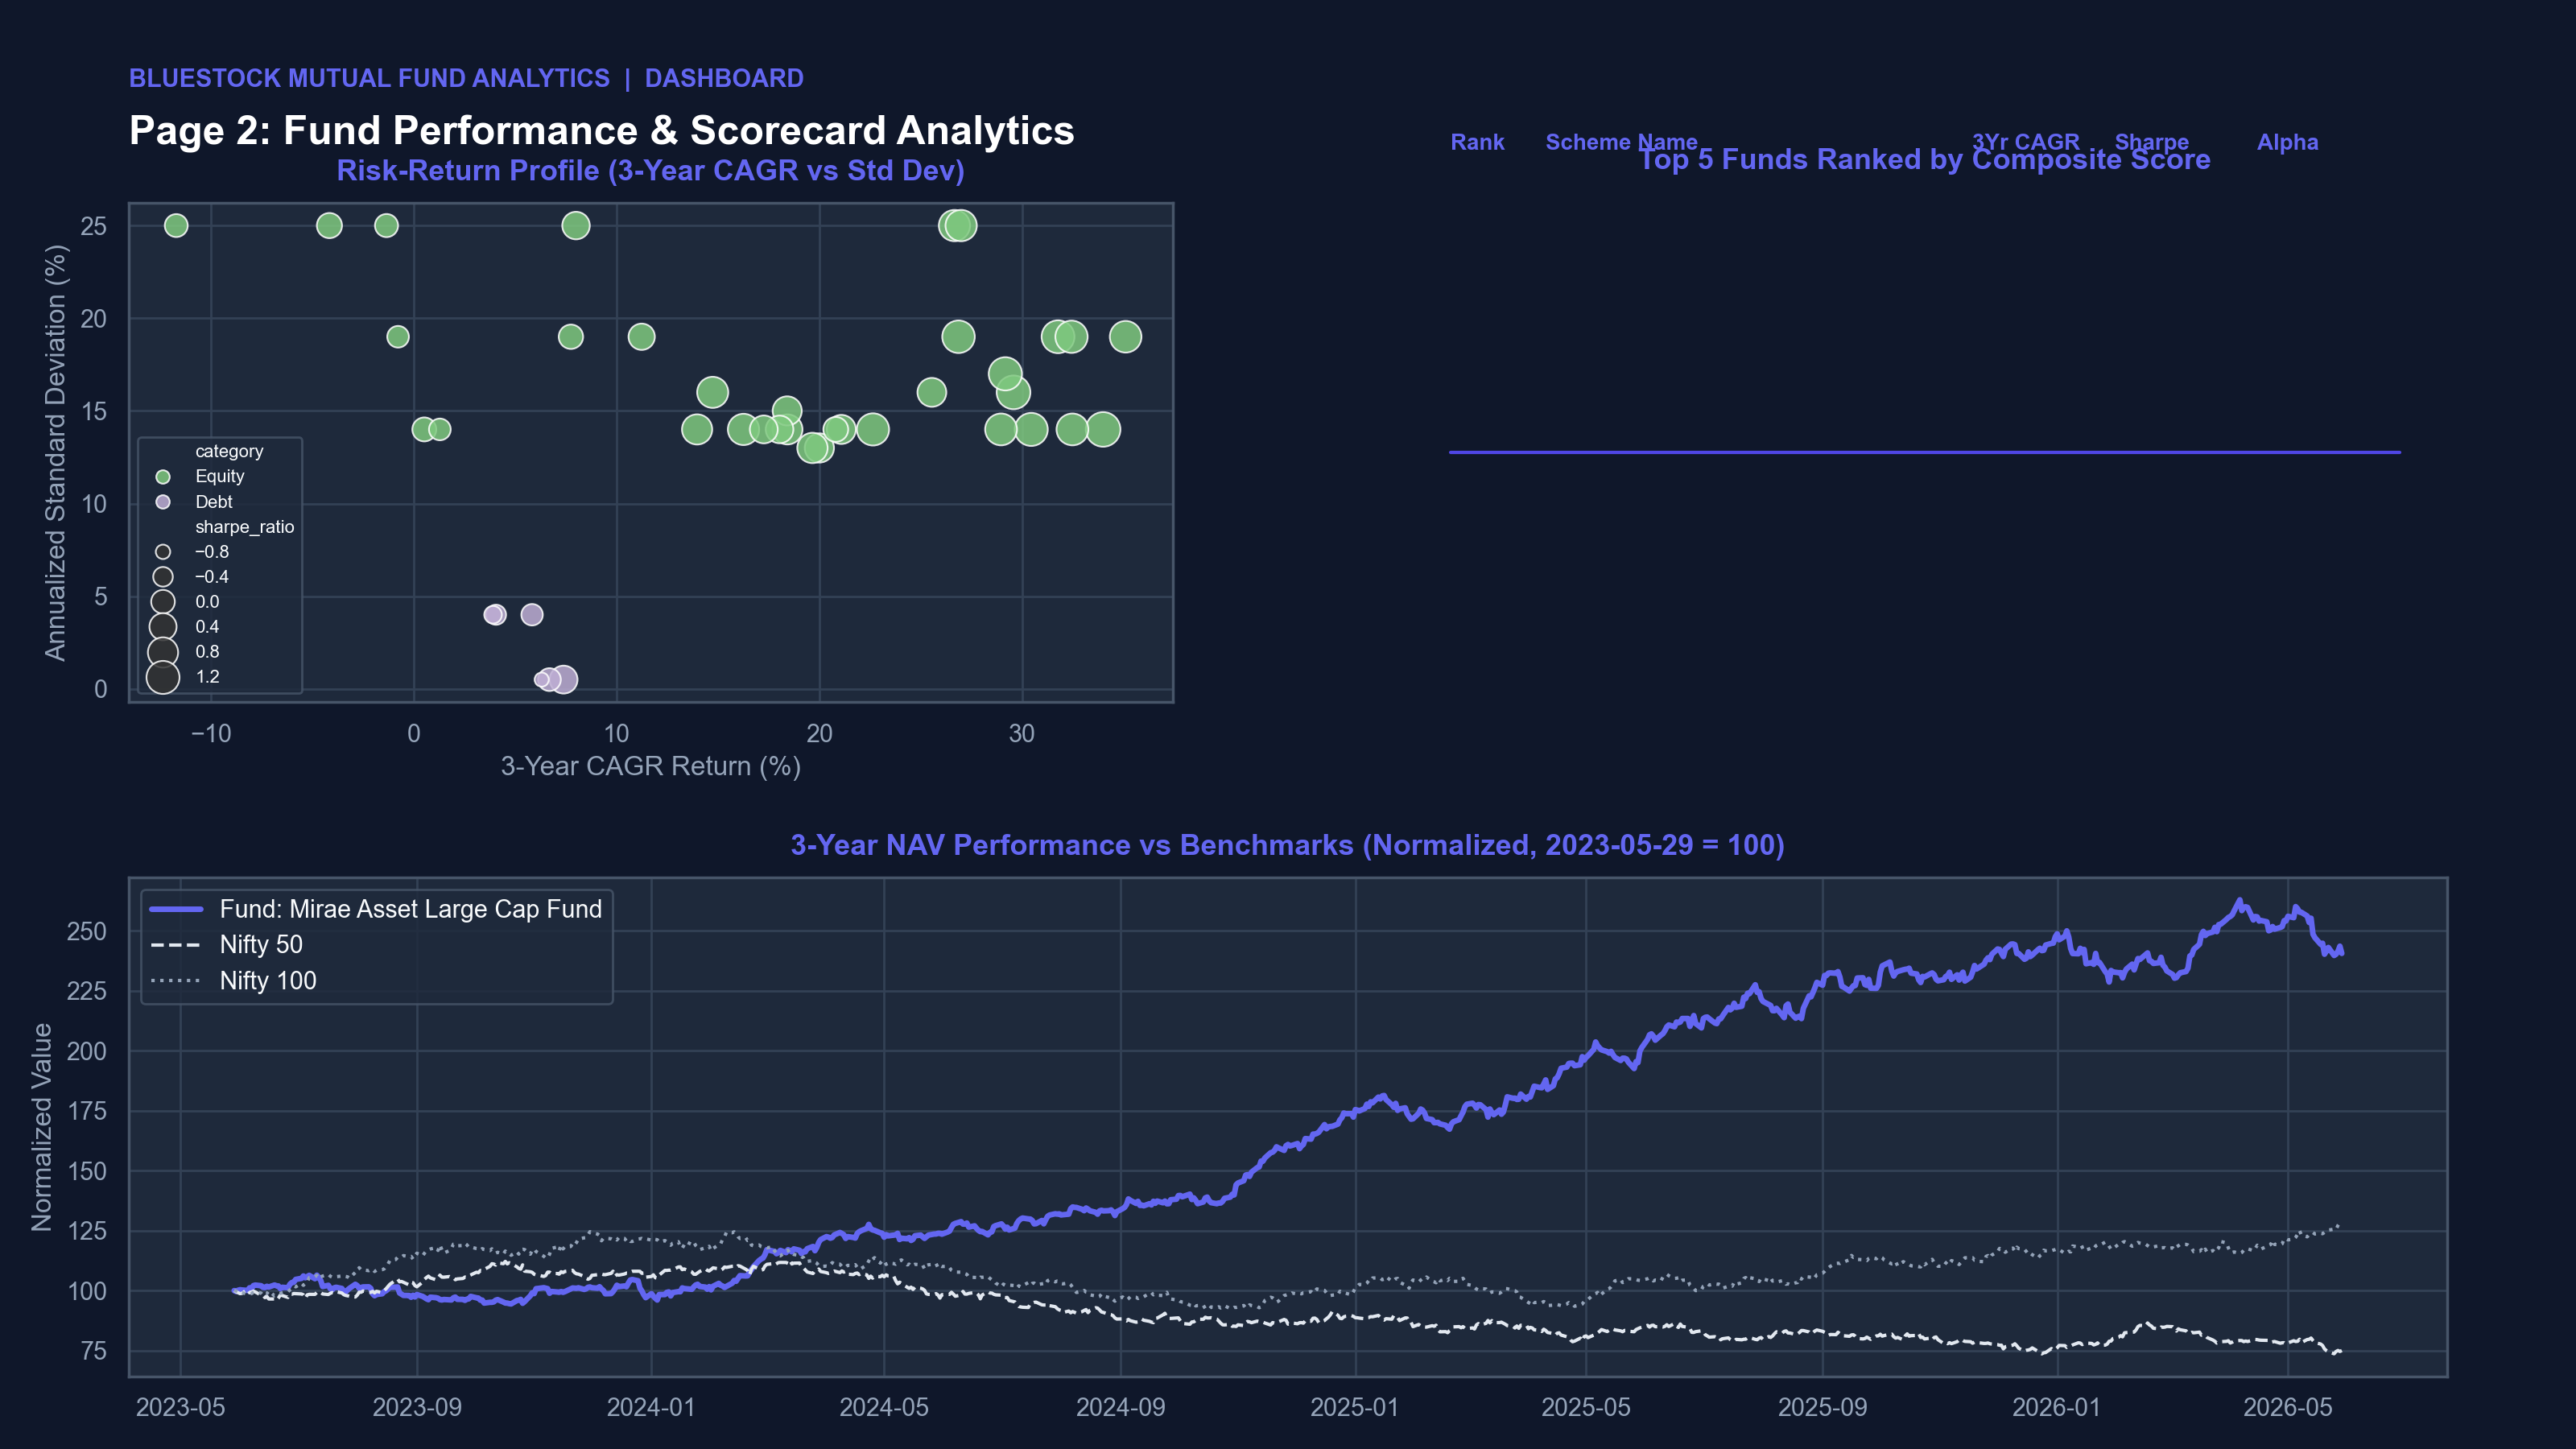
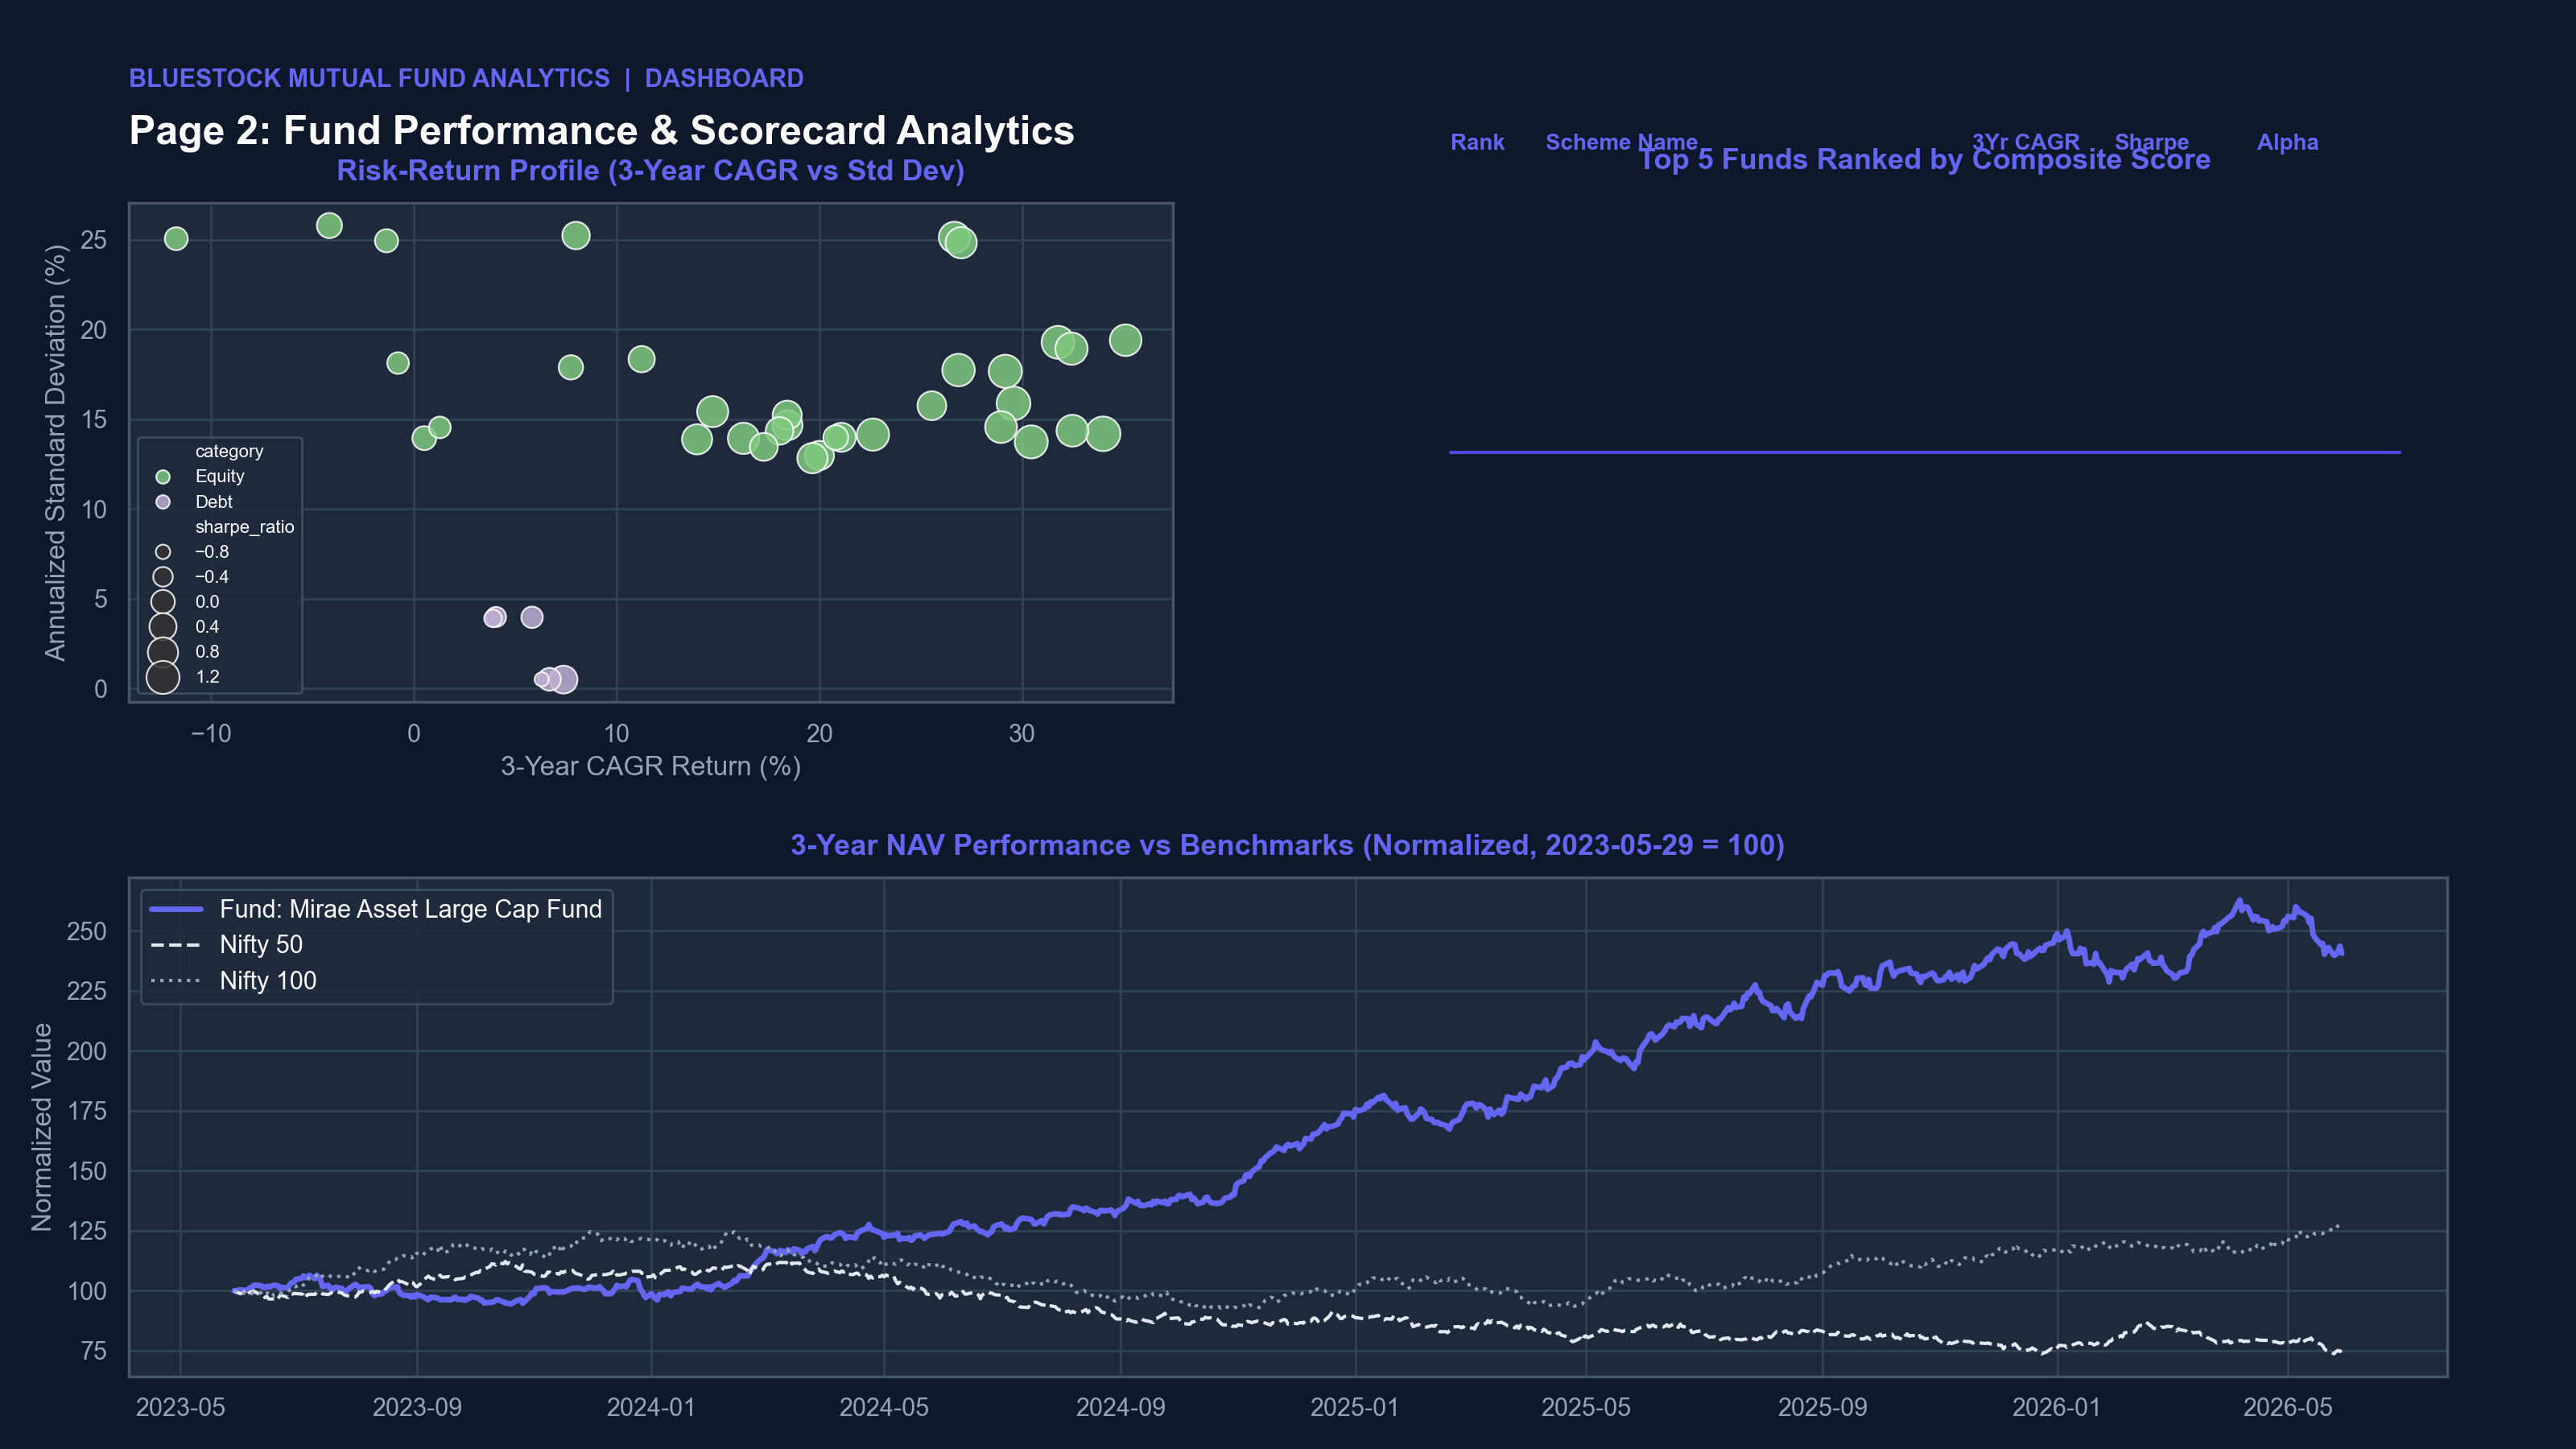
Fix Fund Performance page scatter size crash, NameError on NAV comparison db connection, and enhance the UI with top KPIs, color-graded scorecard, and a latex financial glossary

diff --git a/dashboard/app.py b/dashboard/app.py
@@ -2,6 +2,7 @@ import streamlit as st
 import pandas as pd
 import numpy as np
 import sqlite3
+import contextlib
 import plotly.express as px
 import plotly.graph_objects as go
 from pathlib import Path
@@ -136,6 +137,15 @@ def load_csv_data(filename):
     if path.exists():
         return pd.read_csv(path)
     return pd.DataFrame()
+
[email redacted]
+def get_db_connection():
+    db_path = PROCESSED_DIR / "bluestock.db"
+    conn = sqlite3.connect(db_path)
+    try:
+        yield conn
+    finally:
+        conn.close()
 
 # Load common datasets
 fund_master = load_csv_data("clean_fund_master.csv")
@@ -303,6 +313,49 @@ elif page == "Fund Performance":
     st.markdown("Analyze mutual fund returns on a risk-adjusted basis, evaluate tracking errors against benchmarks, and discover top recommendation models.")
     st.markdown("<br>", unsafe_allow_html=True)
     
+    # Dynamic top-level KPIs computed from scorecard
+    if not scorecard.empty:
+        top_cagr_row = scorecard.loc[scorecard['cagr_3yr_pct'].idxmax()]
+        top_sharpe_row = scorecard.loc[scorecard['sharpe_ratio'].idxmax()]
+        top_alpha_row = scorecard.loc[scorecard['alpha'].idxmax()]
+        lowest_exp_row = scorecard.loc[scorecard['expense_ratio_pct'].idxmin()]
+        
+        kcol1, kcol2, kcol3, kcol4 = st.columns(4)
+        with kcol1:
+            st.markdown(f"""
+            <div class="kpi-container">
+                <div class="kpi-title">Top CAGR Return</div>
+                <div class="kpi-value">{top_cagr_row['cagr_3yr_pct']:.1f}%</div>
+                <div class="kpi-delta" style="color: #10B981;">🏆 {top_cagr_row['scheme_name'].split(" - ")[0][:28]}</div>
+            </div>
+            """, unsafe_allow_html=True)
+        with kcol2:
+            st.markdown(f"""
+            <div class="kpi-container">
+                <div class="kpi-title">Highest Sharpe Ratio</div>
+                <div class="kpi-value">{top_sharpe_row['sharpe_ratio']:.2f}</div>
+                <div class="kpi-delta" style="color: #6366F1;">💎 {top_sharpe_row['scheme_name'].split(" - ")[0][:28]}</div>
+            </div>
+            """, unsafe_allow_html=True)
+        with kcol3:
+            st.markdown(f"""
+            <div class="kpi-container">
+                <div class="kpi-title">Max Alpha (vs Bench)</div>
+                <div class="kpi-value">+{top_alpha_row['alpha']:.1f}%</div>
+                <div class="kpi-delta" style="color: #10B981;">⚡ {top_alpha_row['scheme_name'].split(" - ")[0][:28]}</div>
+            </div>
+            """, unsafe_allow_html=True)
+        with kcol4:
+            st.markdown(f"""
+            <div class="kpi-container">
+                <div class="kpi-title">Lowest Expense Ratio</div>
+                <div class="kpi-value">{lowest_exp_row['expense_ratio_pct']:.2f}%</div>
+                <div class="kpi-delta" style="color: #6366F1;">🌿 {lowest_exp_row['scheme_name'].split(" - ")[0][:28]}</div>
+            </div>
+            """, unsafe_allow_html=True)
+            
+    st.markdown("<br>", unsafe_allow_html=True)
+    
     # Interactive Sidebar Filters
     st.sidebar.markdown("### FILTER CONTROLS")
     selected_amcs = st.sidebar.multiselect("Select AMC / Fund Houses", options=fund_master['fund_house'].unique())
@@ -331,22 +384,32 @@ elif page == "Fund Performance":
         
         # Merge std_dev_ann_pct and category
         plot_data = filtered_scorecard.merge(fund_master[['amfi_code', 'category', 'fund_house']], on='amfi_code')
-        if not scheme_perf.empty:
+        if 'std_dev_ann_pct' not in plot_data.columns and not scheme_perf.empty:
             plot_data = plot_data.merge(scheme_perf[['amfi_code', 'std_dev_ann_pct']], on='amfi_code')
             
         if not plot_data.empty:
+            # Map size parameter safely (clip at minimum to prevent Plotly errors on negative Sharpe Ratios)
+            plot_data['sharpe_ratio_size'] = plot_data['sharpe_ratio'].clip(lower=0.1) * 10 + 5
+            
             fig_scatter = px.scatter(
                 plot_data,
                 x="cagr_3yr_pct",
                 y="std_dev_ann_pct",
                 color="category",
                 hover_name="scheme_name",
-                size="sharpe_ratio",
+                size="sharpe_ratio_size",
                 color_discrete_sequence=px.colors.qualitative.Bold,
                 labels={
                     "cagr_3yr_pct": "3-Year CAGR Return (%)",
                     "std_dev_ann_pct": "Annualized Standard Deviation (%)",
                     "sharpe_ratio": "Sharpe Ratio"
+                },
+                hover_data={
+                    "cagr_3yr_pct": ":.2f",
+                    "std_dev_ann_pct": ":.2f",
+                    "sharpe_ratio": ":.2f",
+                    "alpha": ":.2f",
+                    "sharpe_ratio_size": False
                 },
                 template="plotly_dark"
             )
@@ -419,7 +482,7 @@ elif page == "Fund Performance":
             'Expense Ratio (%)': '{:.2f}%',
             'Max Drawdown (%)': '{:.2f}%',
             'Composite Score': '{:.2f}'
-        }), use_container_width=True, hide_index=True)
+        }).background_gradient(subset=['Composite Score'], cmap='Purples'), use_container_width=True, hide_index=True)
     st.markdown("</div>", unsafe_allow_html=True)
     
     # Fund Detail & Benchmark comparison
@@ -457,12 +520,50 @@ elif page == "Fund Performance":
                 fig_nav = update_plotly_theme(fig_nav)
                 st.plotly_chart(fig_nav, use_container_width=True)
                 
-                # Show key stats
-                kcol1, kcol2, kcol3, kcol4 = st.columns(4)
-                kcol1.metric("3Yr CAGR Return", f"{fund_row['cagr_3yr_pct']:.2f}%")
-                kcol2.metric("Sharpe Ratio", f"{fund_row['sharpe_ratio']:.2f}")
-                kcol3.metric("Alpha (vs Nifty 100)", f"{fund_row['alpha']:.2f}%")
-                kcol4.metric("Maximum Drawdown", f"{fund_row['max_drawdown_pct']:.2f}%")
+                # Fetch beta dynamically
+                beta_val = "N/A"
+                if not alpha_beta.empty:
+                    ab_row = alpha_beta[alpha_beta['amfi_code'] == code]
+                    if not ab_row.empty:
+                        beta_val = f"{ab_row.iloc[0]['beta']:.2f}"
+                
+                # Show key stats in glassmorphic cards
+                scol1, scol2, scol3, scol4, scol5 = st.columns(5)
+                with scol1:
+                    st.markdown(f"""
+                    <div class="kpi-container">
+                        <div class="kpi-title">3Yr CAGR</div>
+                        <div class="kpi-value" style="font-size: 24px; color: #10B981;">{fund_row['cagr_3yr_pct']:.2f}%</div>
+                    </div>
+                    """, unsafe_allow_html=True)
+                with scol2:
+                    st.markdown(f"""
+                    <div class="kpi-container">
+                        <div class="kpi-title">Sharpe Ratio</div>
+                        <div class="kpi-value" style="font-size: 24px; color: #6366F1;">{fund_row['sharpe_ratio']:.2f}</div>
+                    </div>
+                    """, unsafe_allow_html=True)
+                with scol3:
+                    st.markdown(f"""
+                    <div class="kpi-container">
+                        <div class="kpi-title">Alpha (vs Nifty 100)</div>
+                        <div class="kpi-value" style="font-size: 24px; color: #10B981;">{fund_row['alpha']:.2f}%</div>
+                    </div>
+                    """, unsafe_allow_html=True)
+                with scol4:
+                    st.markdown(f"""
+                    <div class="kpi-container">
+                        <div class="kpi-title">Beta (vs Nifty 100)</div>
+                        <div class="kpi-value" style="font-size: 24px; color: #F59E0B;">{beta_val}</div>
+                    </div>
+                    """, unsafe_allow_html=True)
+                with scol5:
+                    st.markdown(f"""
+                    <div class="kpi-container">
+                        <div class="kpi-title">Max Drawdown</div>
+                        <div class="kpi-value" style="font-size: 24px; color: #EF4444;">{fund_row['max_drawdown_pct']:.2f}%</div>
+                    </div>
+                    """, unsafe_allow_html=True)
         except Exception as e:
             st.error(f"Error loading comparison chart: {e}")
     st.markdown("</div>", unsafe_allow_html=True)
@@ -498,6 +599,31 @@ elif page == "Fund Performance":
                 'Sector HHI Index': '{:.4f}'
             }), use_container_width=True, hide_index=True)
         st.markdown("</div>", unsafe_allow_html=True)
+        
+    st.markdown("<br>", unsafe_allow_html=True)
+    
+    # Financial Glossary & Formula Guide
+    with st.expander("📚 Financial Metrics Glossary & Reference Guide"):
+        st.markdown("""
+        ### Understanding Risk & Return Metrics
+        To help you evaluate mutual funds on our platform, here is a breakdown of the key mathematical formulas and terminology used:
+        
+        *   **CAGR (Compound Annual Growth Rate)**: The geometric progression ratio that provides a constant rate of return over the 3-year time period.
+            $$\\text{CAGR} = \\left( \\frac{\\text{End NAV}}{\\text{Start NAV}} \\right)^{\\frac{1}{3}} - 1$$
+        *   **Standard Deviation (Volatility)**: Annualized standard deviation of daily returns, indicating historical fund dispersion. Higher values denote higher pricing instability.
+            $$\\sigma_{\\text{ann}} = \\sigma_{\\text{daily}} \\times \\sqrt{252} \\times 100$$
+        *   **Sharpe Ratio**: A measure of risk-adjusted excess return per unit of volatility (assuming a risk-free rate $R_f = 6.5\\%$).
+            $$\\text{Sharpe} = \\frac{R_p - R_f}{\\sigma_p}$$
+        *   **Alpha (OLS Jensen's Alpha)**: The return of the fund in excess of the Nifty 100 index return, after adjusting for market beta risk. Shows fund manager value-add.
+            $$\\alpha = R_p - [R_f + \\beta_p (R_m - R_f)]$$
+        *   **Beta**: The systematic risk coefficient representing a fund's volatility relative to the broader market index (Nifty 100).
+        *   **Max Drawdown**: The maximum peak-to-trough drop in a fund's NAV, highlighting historical capital downside vulnerability.
+        *   **Value at Risk (VaR 95%)**: The daily potential portfolio loss that will not be exceeded with 95% statistical confidence.
+        *   **Conditional Value at Risk (CVaR 95%)**: The expected loss on days where the VaR threshold is breached (extreme tail loss).
+        *   **Sector HHI (Herfindahl-Hirschman Index)**: Measures portfolio concentration across SEBI sectors.
+            $$\\text{HHI} = \\sum_{i=1}^{n} s_i^2$$
+            *(where $s_i$ is the percentage share of sector $i$. HHI < 0.15 is highly diversified; > 0.25 is concentrated).*
+        """, unsafe_allow_html=True)
 
 # ----------------- PAGE 3: INVESTOR ANALYTICS -----------------
 elif page == "Investor Analytics":

diff --git a/scripts/export_dashboard.py b/scripts/export_dashboard.py
@@ -146,7 +146,9 @@ def generate_page2():
     # 1. Scatter Plot (Top Left)
     ax_scatter = fig.add_subplot(gs[0, 0])
     perf_df = pd.read_csv(PROCESSED_DIR / "clean_scheme_performance.csv")
-    plot_data = scorecard.merge(perf_df[['amfi_code', 'std_dev_ann_pct']], on='amfi_code')
+    plot_data = scorecard.copy()
+    if 'std_dev_ann_pct' not in plot_data.columns:
+        plot_data = plot_data.merge(perf_df[['amfi_code', 'std_dev_ann_pct']], on='amfi_code')
     plot_data = plot_data.merge(master_df[['amfi_code', 'category']], on='amfi_code')
     sns.scatterplot(
         data=plot_data,

diff --git a/scripts/performance_analytics.py b/scripts/performance_analytics.py
@@ -342,7 +342,8 @@ def main() -> None:
     # Save fund_scorecard.csv
     scorecard_df[[
         'amfi_code', 'scheme_name', 'cagr_3yr_pct', 'sharpe_ratio', 'alpha',
-        'expense_ratio_pct', 'max_drawdown_pct', 'score', 'scorecard_rank'
+        'expense_ratio_pct', 'max_drawdown_pct', 'score', 'scorecard_rank',
+        'std_dev_ann_pct'
     ]].to_csv(SCORECARD_PATH, index=False)
     logger.info("Saved scorecard to %s", SCORECARD_PATH)
     